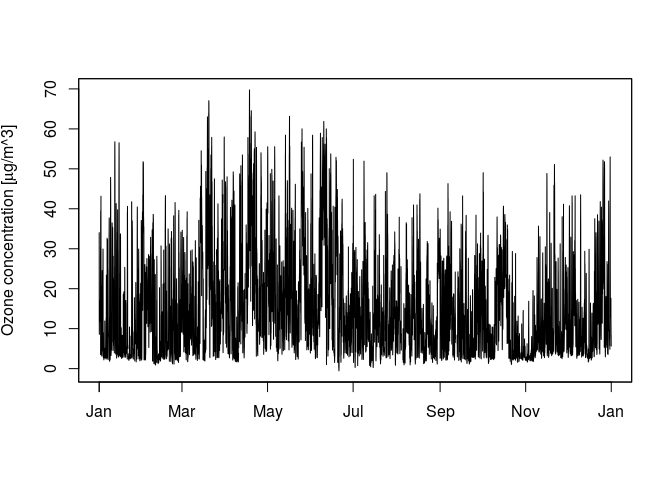
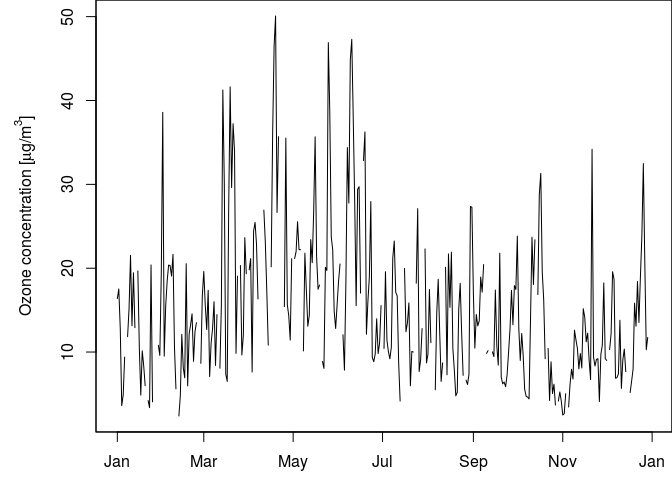
github_document

diff --git a/README.md b/README.md
@@ -1,18 +1,9 @@
 
 <!-- Edit the README.Rmd only!!! The README.md is generated automatically from README.Rmd. -->
-
 rdefra: Interact with the UK AIR Pollution Database from DEFRA
----------------
+==============================================================
 
-
-
-[![DOI](https://zenodo.org/badge/9118/kehraProject/r_rdefra.svg)](https://zenodo.org/badge/latestdoi/9118/kehraProject/r_rdefra)
-[![Build Status](https://travis-ci.org/kehraProject/r_rdefra.svg)](https://travis-ci.org/kehraProject/r_rdefra.svg?branch=master)
-[![codecov.io](https://codecov.io/github/kehraProject/r_rdefra/coverage.svg?branch=master)](https://codecov.io/github/kehraProject/r_rdefra?branch=master)
-[![CRAN Status Badge](http://www.r-pkg.org/badges/version/rdefra)](http://cran.r-project.org/web/packages/rdefra)
-[![CRAN Total Downloads](http://cranlogs.r-pkg.org/badges/grand-total/rdefra)](http://cran.rstudio.com/web/packages/rdefra/index.html)
-[![CRAN Monthly Downloads](http://cranlogs.r-pkg.org/badges/rdefra)](http://cran.rstudio.com/web/packages/rdefra/index.html)
-[![status](http://joss.theoj.org/papers/57058f6e8a511f3bb0667ef7687cc87d/status.svg)](http://joss.theoj.org/papers/57058f6e8a511f3bb0667ef7687cc87d)
+[![DOI](https://zenodo.org/badge/9118/kehraProject/r_rdefra.svg)](https://zenodo.org/badge/latestdoi/9118/kehraProject/r_rdefra) [![Build Status](https://travis-ci.org/kehraProject/r_rdefra.svg)](https://travis-ci.org/kehraProject/r_rdefra.svg?branch=master) [![codecov.io](https://codecov.io/github/kehraProject/r_rdefra/coverage.svg?branch=master)](https://codecov.io/github/kehraProject/r_rdefra?branch=master) [![CRAN Status Badge](http://www.r-pkg.org/badges/version/rdefra)](http://cran.r-project.org/web/packages/rdefra) [![CRAN Total Downloads](http://cranlogs.r-pkg.org/badges/grand-total/rdefra)](http://cran.rstudio.com/web/packages/rdefra/index.html) [![CRAN Monthly Downloads](http://cranlogs.r-pkg.org/badges/rdefra)](http://cran.rstudio.com/web/packages/rdefra/index.html) [![status](http://joss.theoj.org/papers/57058f6e8a511f3bb0667ef7687cc87d/status.svg)](http://joss.theoj.org/papers/57058f6e8a511f3bb0667ef7687cc87d)
 
 The package [rdefra](https://cran.r-project.org/package=rdefra) allows to retrieve air pollution data from the Air Information Resource [UK-AIR](https://uk-air.defra.gov.uk/) of the Department for Environment, Food and Rural Affairs in the United Kingdom. UK-AIR does not provide a public API for programmatic access to data, therefore this package scrapes the HTML pages to get relevant information.
 
@@ -20,22 +11,22 @@ This package follows a logic similar to other packages such as [waterData](https
 
 The package is designed to collect data efficiently. It allows to download multiple years of data for a single station with one line of code and, if used with the parallel package, allows the acquisition of data from hundreds of sites in only few minutes.
 
-For similar functionalities see also the [openair](https://cran.r-project.org/package=openair) package, which relies on a local copy of the data on servers at King's College (UK), and the [ropenaq](https://CRAN.R-project.org/package=ropenaq) which provides UK-AIR latest measured levels (see https://uk-air.defra.gov.uk/latest/currentlevels) as well as data from other countries.
+For similar functionalities see also the [openair](https://cran.r-project.org/package=openair) package, which relies on a local copy of the data on servers at King's College (UK), and the [ropenaq](https://CRAN.R-project.org/package=ropenaq) which provides UK-AIR latest measured levels (see <https://uk-air.defra.gov.uk/latest/currentlevels>) as well as data from other countries.
 
 Please note that this project is released with a [Contributor Code of Conduct](rdefra/CONDUCT.md). By participating in this project you agree to abide by its terms.
 
-## Dependencies & Installation
+Dependencies & Installation
+---------------------------
 
 ### Dependencies
 
-The rdefra package depends on two things: 
+The rdefra package depends on two things:
 
-* The Geospatial Data Abstraction Library (gdal). If you use linux/ubuntu, this can be installed with the following command: `sudo apt-get install -y r-cran-rgdal`. 
+-   The Geospatial Data Abstraction Library (gdal). If you use linux/ubuntu, this can be installed with the following command: `sudo apt-get install -y r-cran-rgdal`.
 
-* Some additional CRAN packages. Check for missing dependencies and install them using the commands below:
+-   Some additional CRAN packages. Check for missing dependencies and install them using the commands below:
 
-
-```r
+``` r
 packs <- c('httr', 'xml2', 'lubridate', 'tibble', 'dplyr', 'sp', 'devtools',
            'leaflet', 'zoo', 'testthat', 'knitr', 'Rmarkdown')
 new.packages <- packs[!(packs %in% installed.packages()[,'Package'])]
@@ -46,74 +37,70 @@ if(length(new.packages)) install.packages(new.packages)
 
 You can install this package from CRAN:
 
-
-```r
+``` r
 install.packages('rdefra')
 ```
 
-
 Or you can install the development version from Github with [devtools](https://github.com/hadley/devtools):
 
-
-```r
+``` r
 devtools::install_github('cvitolo/r_rdefra', subdir = 'rdefra')
 ```
 
 Load the rdefra package:
 
-
-```r
+``` r
 library('rdefra')
 ```
 
-## Functions
+Functions
+---------
 
 The package logic assumes that the user access the UK-AIR database in two steps:
 
-1. Browse the catalogue of available stations and selects some stations of interest.
-2. Retrieves data for the selected stations.
+1.  Browse the catalogue of available stations and selects some stations of interest.
+2.  Retrieves data for the selected stations.
 
 ### Get metadata catalogue
-DEFRA monitoring stations can be downloaded and filtered using the function `ukair_catalogue()` with no input parameters, as in the example below. 
 
+DEFRA monitoring stations can be downloaded and filtered using the function `ukair_catalogue()` with no input parameters, as in the example below.
 
-```r
+``` r
 # Get full catalogue
 stations_raw <- ukair_catalogue()
 ```
 
 The same function, can be used to filter the catalogue using the following input parameters:
 
-* `site_name` IDs of specific site (UK.AIR.ID). By default this is left blank to get info on all the available sites.
-* `pollutant` This is an integer between 1 and 10. Default is 9999, which means all the pollutants.
-* `group_id` This is the identification number of a group of stations. Default is 9999 which means all available networks.
-* `closed` This is set to TRUE to include closed stations, FALSE otherwise.
-* `country_id` This is the identification number of the country, it can be an integer between 1 and 6. Default is 9999, which means all the countries.
-* `region_id` This is the identification number of the region. 1 = Aberdeen City, etc. (for the full list see https://uk-air.defra.gov.uk/). Default is 9999, which means all the local authorities.
+-   `site_name` IDs of specific site (UK.AIR.ID). By default this is left blank to get info on all the available sites.
+-   `pollutant` This is an integer between 1 and 10. Default is 9999, which means all the pollutants.
+-   `group_id` This is the identification number of a group of stations. Default is 9999 which means all available networks.
+-   `closed` This is set to TRUE to include closed stations, FALSE otherwise.
+-   `country_id` This is the identification number of the country, it can be an integer between 1 and 6. Default is 9999, which means all the countries.
+-   `region_id` This is the identification number of the region. 1 = Aberdeen City, etc. (for the full list see <https://uk-air.defra.gov.uk/>). Default is 9999, which means all the local authorities.
 
-
-```r
+``` r
 stations_EnglandOzone <- ukair_catalogue(pollutant = 1, country_id = 1)
 ```
 
 The example above shows how to retrieve the 104 stations in England in which ozone is measured.
 
 ### Get missing coordinates
+
 Locating a station is extremely important to be able to carry out any spatial analysis. If coordinates are missing, for some stations in the catalogue, it might be possible to retrieve Easting and Northing (coordinates in the British National Grid) from DEFRA's web pages. Get E and N, transform them to latitude and longitude and populate the missing coordinates using the code below.
 
-
-```r
+``` r
 # Scrape DEFRA website to get Easting/Northing
 stations <- ukair_get_coordinates(stations_raw)
 ```
 
 ### Check hourly data availability
-Pollution data started to be collected in 1972 and consists of hourly concentration of various species (in &#956;g/m<sup>3</sup>), such as ozone (O<sub>3</sub>), particulate matters (PM<sub>2.5</sub> and PM<sub>10</sub>), nitrogen dioxide (NO<sub>2</sub>), sulphur dioxide (SO<sub>2</sub>), and so on.
 
-The ID under which they are available differs from the UK.AIR.ID. The catalogue does not contain this additional station ID (called SiteID hereafter) but DEFRA's web pages contain references to both the UK.AIR.ID and the SiteID. The function below uses as input the UK.AIR.ID and outputs the SiteID, if available. 
+Pollution data started to be collected in 1972 and consists of hourly concentration of various species (in μg/m<sup>3</sup>), such as ozone (O<sub>3</sub>), particulate matters (PM<sub>2.5</sub> and PM<sub>10</sub>), nitrogen dioxide (NO<sub>2</sub>), sulphur dioxide (SO<sub>2</sub>), and so on.
 
+The ID under which they are available differs from the UK.AIR.ID. The catalogue does not contain this additional station ID (called SiteID hereafter) but DEFRA's web pages contain references to both the UK.AIR.ID and the SiteID. The function below uses as input the UK.AIR.ID and outputs the SiteID, if available.
 
-```r
+``` r
 stations$SiteID <- ukair_get_site_id(stations$UK.AIR.ID)
 ```
 
@@ -121,8 +108,7 @@ stations$SiteID <- ukair_get_site_id(stations$UK.AIR.ID)
 
 The time series for a given station can be retrieved in one line of code:
 
-
-```r
+``` r
 # Get 1 year of hourly ozone data from London Marylebone Road monitoring station
 df <- ukair_get_hourly_data('MY1', years=2015)
 
@@ -135,12 +121,11 @@ plot(aggregate(my1, as.Date(as.POSIXlt(df$datetime)), mean),
                                                     mu, 'g/', m^3, ']')))
 ```
 
-![](README_files/figure-html/unnamed-chunk-10-1.png)<!-- -->
+![](README_files/figure-markdown_github/unnamed-chunk-10-1.png)
 
 Highest concentrations seem to happen in late spring and at the beginning of summer. In order to check whether this happens every year, we can download multiple years of data and then compare them.
 
-
-```r
+``` r
 # Get 15 years of hourly ozone data from the same monitoring station
 library('ggplot2')
 library('dplyr')
@@ -162,16 +147,16 @@ df %>%
   ylab(expression(paste("Ozone concentration (", mu, "g/",m^3,")")))
 ```
 
-![](README_files/figure-html/unnamed-chunk-11-1.png)<!-- -->
+![](README_files/figure-markdown_github/unnamed-chunk-11-1.png)
 
-The above box plots show that the highest concentrations usually occurr during April/May and that these vary year-by-year.  
+The above box plots show that the highest concentrations usually occurr during April/May and that these vary year-by-year.
 
-## Cached catalogue
+Cached catalogue
+----------------
 
 For convenience, a cached version of the catalogue (last updated in August 2016) is included in the package and can be loaded using the following command:
 
-
-```r
+``` r
 data('stations')
 
 stations
@@ -195,16 +180,16 @@ stations
 #> #   Site.Description <chr>, Easting <dbl>, Northing <dbl>, SiteID <chr>
 ```
 
-The cached catalogue contains all the available site IDs and coordinates and can be quickly used as lookup table to find out the correspondence between the UK.AIR.ID and SiteID, as well as to investigate station characteristics. 
+The cached catalogue contains all the available site IDs and coordinates and can be quickly used as lookup table to find out the correspondence between the UK.AIR.ID and SiteID, as well as to investigate station characteristics.
 
-## Applications
+Applications
+------------
 
-### Plotting stations' locations 
+### Plotting stations' locations
 
 In the raw catalogue, 3807 stations contain valid coordinates. After scraping DEFRA's web pages, the number of stations with valid coordinates rises to 6567. In the figure below, blue circles show all the stations with valid coordinates, while red circles show stations with available hourly data.
 
-
-```r
+``` r
 stations_with_Hdata <- which(!is.na(stations$SiteID))
 
 library('leaflet')
@@ -217,37 +202,33 @@ leaflet(data = stations) %>% addTiles() %>%
                    lat = ~Latitude,  
                    popup = ~SiteID,
                    radius = 1, color='blue', fill = FALSE)
-
 ```
 
-![](README_files/leaflet.png)
+![](assets/figures/leaflet.png)
 
 ### Analyse the spatial distribution of the monitoring stations
 
 Below are two plots showing the spatial distribution of the monitoring stations. These are concentrated largely in urban areas and mostly estimate the background level of concentration of pollutants.
 
-
-```r
+``` r
 # Zone
 dotchart(as.matrix(table(stations$Zone))[,1])
 ```
 
-![](README_files/figure-html/unnamed-chunk-14-1.png)<!-- -->
+![](README_files/figure-markdown_github/unnamed-chunk-14-1.png)
 
-
-```r
+``` r
 # Environment.Type
 dotchart(as.matrix(table(stations$Environment.Type[stations$Environment.Type != 'Unknown Unknown']))[,1])
 ```
 
-![](README_files/figure-html/unnamed-chunk-15-1.png)<!-- -->
+![](README_files/figure-markdown_github/unnamed-chunk-15-1.png)
 
 ### Use multiple cores to speed up data retrieval from numerous sites
 
 Using parallel processing, the acquisition of data from hundreds of sites takes only few minutes:
 
-
-```r
+``` r
 library('parallel')
 
 # Calculate the number of cores
@@ -264,12 +245,13 @@ stopCluster(cl)
 df <- bind_rows(myList)
 ```
 
-## Meta
+Meta
+----
 
-* Please [report any issues or bugs](https://github.com/kehraProject/r_rdefra/issues).
-* License: [GPL-3](https://opensource.org/licenses/GPL-3.0)
-* Get citation information for `rdefra` in R doing `citation(package = 'rdefra')`
+-   Please [report any issues or bugs](https://github.com/kehraProject/r_rdefra/issues).
+-   License: [GPL-3](https://opensource.org/licenses/GPL-3.0)
+-   Get citation information for `rdefra` in R doing `citation(package = 'rdefra')`
 
 <br/>
 
-[![ropensci_footer](http://ropensci.org/public_images/github_footer.png)](http://ropensci.org)
+[![ropensci\_footer](http://ropensci.org/public_images/github_footer.png)](http://ropensci.org)
